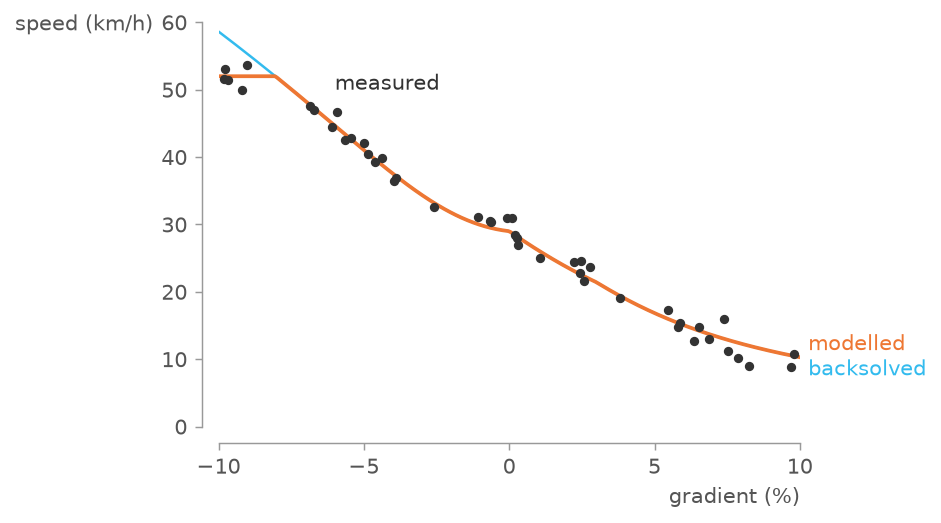
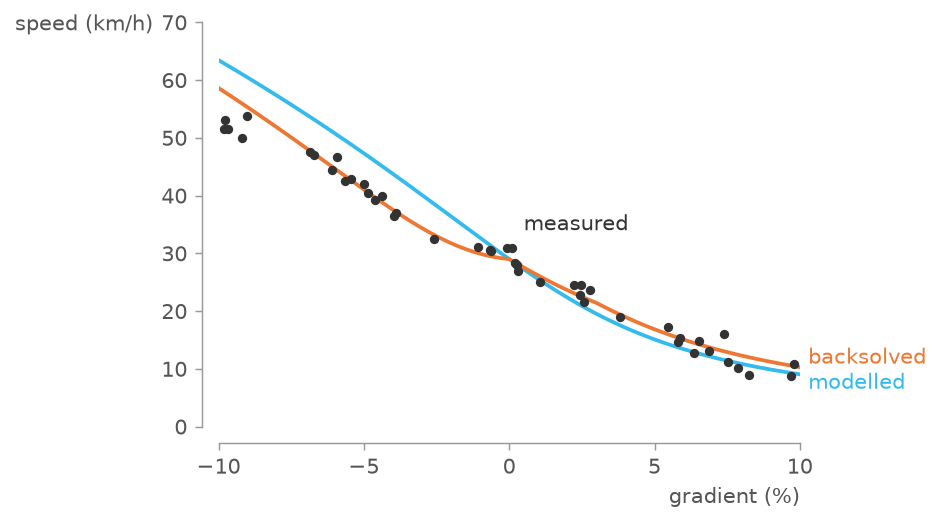
docs: contrast a flat-power model with the backsolve
Claude-Session: https://claude.ai/code/session_01CCYCnE8BQvtCWn7v7EDCNF

diff --git a/examples/backsolved_speed.py b/examples/backsolved_speed.py
@@ -2,9 +2,11 @@
 
 A rider is three scalars (flat cruising speed, critical climbing rate,
 a descent comfort cap); a force-balance cubic backsolves the speed they
-imply at any gradient. The modelled curve caps descents at the comfort
-cap; the backsolved curve is the raw physics without it. Measured speeds
-scatter around the modelled curve.
+imply at any gradient. The modelled curve holds flat cruising power at
+every gradient, so it undershoots climbs and overshoots descents; the
+backsolved curve prices the effort per gradient, uncapped. Measured
+speeds scatter around the backsolved curve, held at the comfort cap on
+descents.
 """
 
 from pathlib import Path
@@ -36,26 +38,30 @@ def solve_speed(power: np.ndarray, gradient: np.ndarray) -> np.ndarray:
     return np.array(speeds)
 
 
+P_FLAT = K_A * (V_FLAT + WIND) ** 2 * V_FLAT + CRR * MASS * G0 * V_FLAT
+
+
 def backsolved_speed(gradient: np.ndarray) -> np.ndarray:
     """Speed at any gradient from the three scalars, uncapped."""
-    p_flat = K_A * (V_FLAT + WIND) ** 2 * V_FLAT + CRR * MASS * G0 * V_FLAT
     cp = MASS * G0 * VAM_CP / 3600
-    climb = p_flat + (cp - p_flat) * np.clip(gradient / 0.03, 0, 1)
-    descent = p_flat * np.exp(-25 * np.abs(gradient))
+    climb = P_FLAT + (cp - P_FLAT) * np.clip(gradient / 0.03, 0, 1)
+    descent = P_FLAT * np.exp(-25 * np.abs(gradient))
     power = np.where(gradient >= 0, climb, descent)
     return 3.6 * solve_speed(power, gradient)
 
 
 def modelled_speed(gradient: np.ndarray) -> np.ndarray:
-    """Backsolved speed with descents held at the comfort cap."""
-    return np.minimum(backsolved_speed(gradient), 3.6 * V_CAP)
+    """Constant-power cubic: flat cruising power at every gradient."""
+    return 3.6 * solve_speed(np.full_like(gradient, P_FLAT), gradient)
 
 
 def main() -> None:
     """Render the figure into `docs/backsolved_speed.png`."""
     rng = np.random.default_rng(7)
     gradient = rng.uniform(-0.099, 0.099, 45)
-    speed = modelled_speed(gradient) + rng.normal(0, 1.5, gradient.size)
+    speed = np.minimum(backsolved_speed(gradient), 3.6 * V_CAP) + rng.normal(
+        0, 1.5, gradient.size
+    )
     grid = np.linspace(-0.10, 0.10, 300)
 
     fig, ax = plt.subplots(figsize=(5, 3.5))
@@ -63,19 +69,19 @@ def main() -> None:
     ax.scatter(100 * gradient, speed, s=12, zorder=3)
     ax.plot(
         100 * grid,
-        backsolved_speed(grid),
-        color="tol:cyan",
-        linewidth=1.2,
-        label="backsolved",
-    )
-    ax.plot(
-        100 * grid,
         modelled_speed(grid),
-        color="tol:orange",
+        color="tol:cyan",
         linewidth=1.8,
         label="modelled",
     )
-    ax.text(-6.0, 50, "measured", color=vfs.palettes.DATA_INK)
+    ax.plot(
+        100 * grid,
+        backsolved_speed(grid),
+        color="tol:orange",
+        linewidth=1.8,
+        label="backsolved",
+    )
+    ax.text(0.5, 34, "measured", color=vfs.palettes.DATA_INK)
     vfs.line_labels(ax)
     vfs.xlabel(ax, "gradient (%)")
     vfs.ylabel(ax, "speed (km/h)", flush=True)

diff --git a/README.md b/README.md
@@ -17,7 +17,7 @@ What it adds today:
 
 ![A scatter of measured cycling speeds against gradient, with modelled and backsolved speed curves labelled at their right ends inside a range frame](docs/backsolved_speed.png)
 
-The figure comes from [`examples/backsolved_speed.py`](examples/backsolved_speed.py): the treatment with `frame="loose"` around modelled and backsolved speed curves, their labels stacked by `line_labels` where the curves merge.
+The figure comes from [`examples/backsolved_speed.py`](examples/backsolved_speed.py): the treatment with `frame="loose"` around modelled and backsolved speed curves, their converging end labels kept apart by `line_labels`.
 
 ## Install
 
